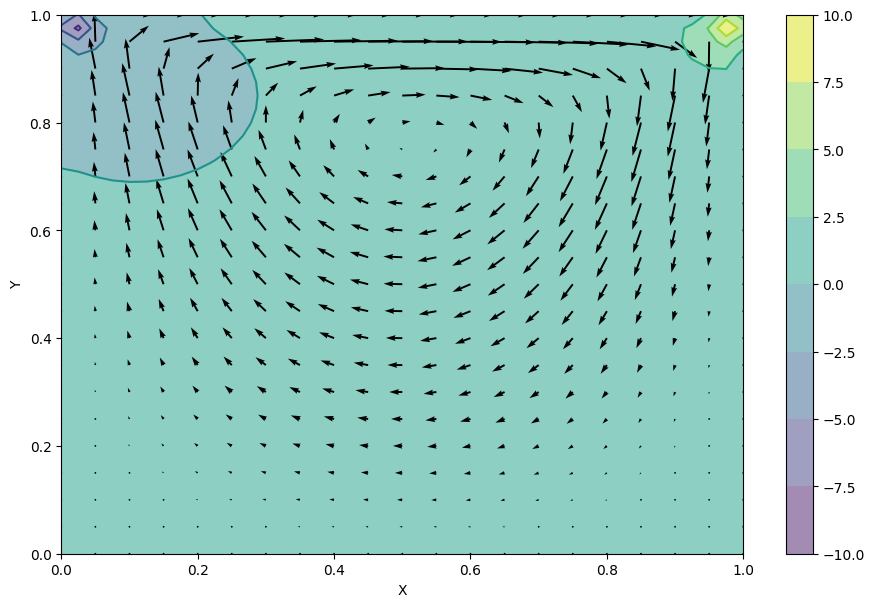
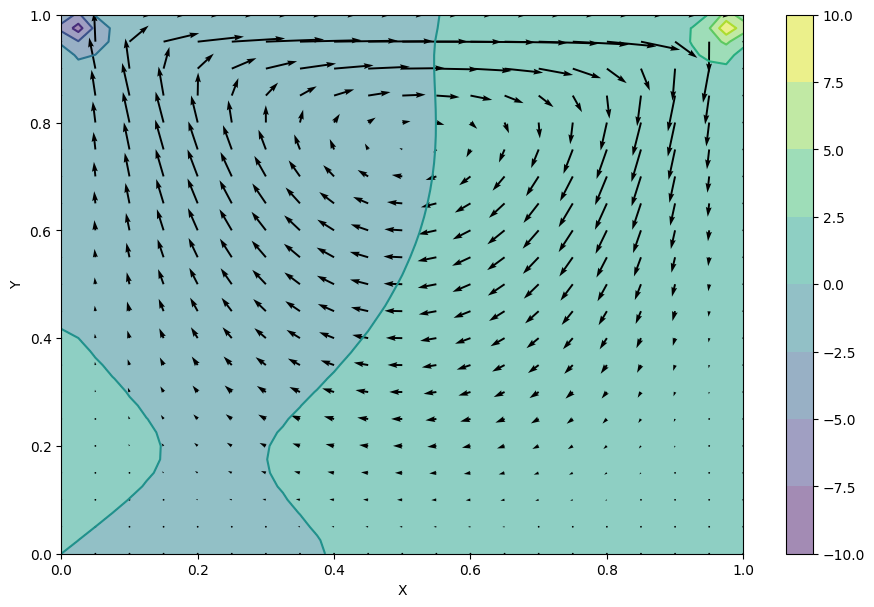
start script where momentum is solved using petsc too

diff --git a/Staggered/cavityflow/07.py b/Staggered/cavityflow/07.py
@@ -21,7 +21,7 @@ PetscInitialize()
 # also closely linked to 'Computational fluid dynamics by example' textbook - biringen and chow
 
 
-# using petsc only for the pressure solve
+# using petsc for the momentum equations (still explicit) and the pressure solve
 
 ny = 41
 nx = 41
@@ -395,9 +395,8 @@ p = Function(name='p', grid=grid, space_order=2, staggered=(x, y))
 
 # u-momentum:
 # p.dxc is forcing the non staggering so it is not correct - that is why I use p.dx instead
-eq_u_tent = Eq(u.dt + u*u.dxc + v*u.dyc, (1./re)*(u.dx2 + u.dy2))
-stencil_u_tent = solve(eq_u_tent, u.forward)
-update_u_tent = Eq(u.forward, stencil_u_tent, subdomain=grid.subdomains['sub15'])
+eq_u_tent = Eq(u.dt + u*u.dxc + v*u.dyc, (1./re)*(u.dx2 + u.dy2), subdomain=grid.subdomains['sub15'])
+
 
 # v-momentum:
 eq_v_tent = Eq(v.dt + u*v.dxc + v*v.dyc, (1./re)*(v.dx2 + v.dy2))
@@ -417,12 +416,19 @@ eq_p = Eq(p.laplace, (1./dt)*(ux_cc+vy_cc), subdomain=grid.subdomains['sub5'])
 
 # Top lid (y=1): value at the wall equals U_lid=1: (u[ny-2] + u[ny-1])/2 = 1
 # u[ny-1] = 2 - u[ny-2]
-bc_u = [Eq(u.forward, 0, subdomain=grid.subdomains['sub14'])] # left
-bc_u += [Eq(u.forward, 0, subdomain=grid.subdomains['sub11'])] # right
+bc_u_tent = [EssentialBC(u.forward, 0, subdomain=grid.subdomains['sub14'])] # left
+bc_u_tent += [EssentialBC(u.forward, 0, subdomain=grid.subdomains['sub11'])] # right
 # NOTE: don't acc need to modify these equations with the explicit scheme since I set them with bc_u_halo after
 # but just setting it up this way since I THINK it may be needed for the implicit scheme
-bc_u += [neumann_bottom(update_u_tent, u, subdomain=grid.subdomains['sub12'])] # bottom
-bc_u += [neumann_top(update_u_tent, u, subdomain=grid.subdomains['sub13'])] # top
+bc_u_tent += [neumann_bottom(eq_u_tent, u, subdomain=grid.subdomains['sub12'])] # bottom
+bc_u_tent += [neumann_top(eq_u_tent, u, subdomain=grid.subdomains['sub13'])] # top
+
+bc_tmp_u = TimeFunction(name='bc_tmp_u', grid=grid, space_order=2, staggered=y)
+# This will be automated by the compiler
+bc_u_tent += [EssentialBC(u.forward, bc_tmp_u, subdomain=grid.subdomains['sub10'], constrain=True)]
+
+
+u_tent_solve = petscsolve([eq_u_tent]+bc_u_tent, u.forward, options_prefix='utent_solve', solver_parameters={'ksp_type': 'cg'})
 
 
 # TODO: can you use subdomains instead of index notation to set the halo region here?
@@ -449,14 +455,14 @@ bc_p += [neumann_right(eq_p, p, sub6)]
 bc_p += [neumann_bottom(eq_p, p, sub8)]
 bc_p += [neumann_right(neumann_bottom(eq_p, p, sub9), p, sub9)]
 
-bc_tmp1 = Function(name='bc_tmp1', grid=grid, space_order=2, staggered=(x, y))
-bc_tmp1.data[:] = 0.
-bc_p += [EssentialBC(p, bc_tmp1, subdomain=grid.subdomains['sub7'])] # pin pressure at corner
+bc_tmp_p = Function(name='bc_tmp_p', grid=grid, space_order=2, staggered=(x, y))
+bc_tmp_p.data[:] = 0.
+bc_p += [EssentialBC(p, bc_tmp_p, subdomain=grid.subdomains['sub7'])] # pin pressure at corner
 
 
 # These two will be automated in the compiler
-bc_p += [EssentialBC(p, bc_tmp1, subdomain=grid.subdomains['sub10'], constrain=True)]
-bc_p += [EssentialBC(p, bc_tmp1, subdomain=grid.subdomains['sub11'], constrain=True)]
+bc_p += [EssentialBC(p, bc_tmp_p, subdomain=grid.subdomains['sub10'], constrain=True)]
+bc_p += [EssentialBC(p, bc_tmp_p, subdomain=grid.subdomains['sub11'], constrain=True)]
 
 
 # TODO: check symmetry of matrix before using CG..
@@ -471,8 +477,18 @@ update_v = Eq(v.forward, v.forward - dt*p.dy,
               subdomain=grid.subdomains['sub17'])
 
 
-exprs = [update_u_tent] + bc_u + bc_u_halo + [update_v_tent] + bc_v + bc_v_halo + [pressure_solve] + [update_u] + bc_u + bc_u_halo + [update_v] + bc_v + bc_v_halo
+bc_u = [EssentialBC(u.forward, 0, subdomain=grid.subdomains['sub14'])] # left
+bc_u += [EssentialBC(u.forward, 0, subdomain=grid.subdomains['sub11'])] # right
+# NOTE: don't acc need to modify these equations with the explicit scheme since I set them with bc_u_halo after
+# but just setting it up this way since I THINK it may be needed for the implicit scheme
+bc_u += [neumann_bottom(update_u, u, subdomain=grid.subdomains['sub12'])] # bottom
+bc_u += [neumann_top(update_u, u, subdomain=grid.subdomains['sub13'])] # top
 
+
+
+# from IPython import embed; embed()
+exprs = [u_tent_solve] + bc_u_halo + [update_v_tent] + bc_v + bc_v_halo + [pressure_solve] + [update_u] + bc_u + bc_u_halo + [update_v] + bc_v + bc_v_halo
+# exprs = [u_tent_solve] + bc_u_halo + [update_v_tent] + bc_v + bc_v_halo + [pressure_solve] + [update_u] + bc_u
 
 with switchconfig(language='petsc'):
     op = Operator(exprs)
@@ -531,7 +547,7 @@ pyplot.contour(X, Y, plotfunc_p.data[:], cmap=cm.viridis)
 pyplot.quiver(X[::2, ::2], Y[::2, ::2], plotfunc_u.data[::2, ::2], plotfunc_v.data[::2, ::2])
 pyplot.xlabel('X')
 pyplot.ylabel('Y')
-pyplot.savefig('06.png', dpi=100, bbox_inches='tight')
+pyplot.savefig('07.png', dpi=100, bbox_inches='tight')
 pyplot.show()
 
 #NBVAL_IGNORE_OUTPUT
@@ -547,5 +563,5 @@ ax1.plot(x_coord[:],plotfunc_v.data[:,int(grid.shape[0]/2)])
 ax1.plot(Marchi_Re10_v[:,0],Marchi_Re10_v[:,1],'ro')
 ax1.set_xlabel('$x$')
 ax1.set_ylabel('$v$')
-pyplot.savefig('06_comparison.png', dpi=100, bbox_inches='tight')
+pyplot.savefig('07_comparison.png', dpi=100, bbox_inches='tight')
 pyplot.show()

diff --git a/Staggered/cavityflow/05.py b/Staggered/cavityflow/05.py
@@ -416,6 +416,8 @@ eq_p = Eq(p.laplace,
 # u[ny-1] = 2 - u[ny-2]
 bc_u = [Eq(u.forward, 0, subdomain=grid.subdomains['sub14'])] # left
 bc_u += [Eq(u.forward, 0, subdomain=grid.subdomains['sub11'])] # right
+# NOTE: don't acc need to modify these equations with the explicit scheme since I set them with bc_u_halo after
+# but just setting it up this way since I THINK it may be needed for the implicit scheme
 bc_u += [neumann_bottom(update_u, u, subdomain=grid.subdomains['sub12'])] # bottom
 bc_u += [neumann_top(update_u, u, subdomain=grid.subdomains['sub13'])] # top
 
